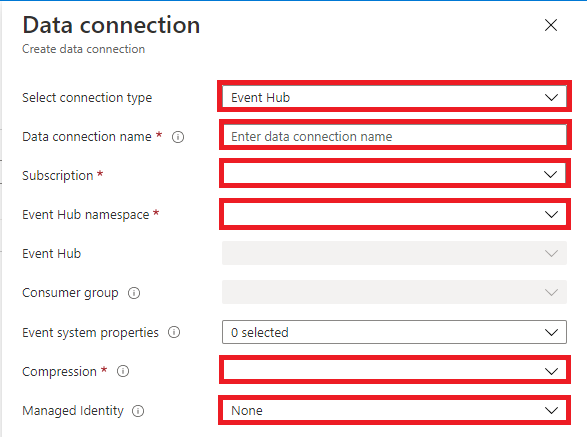
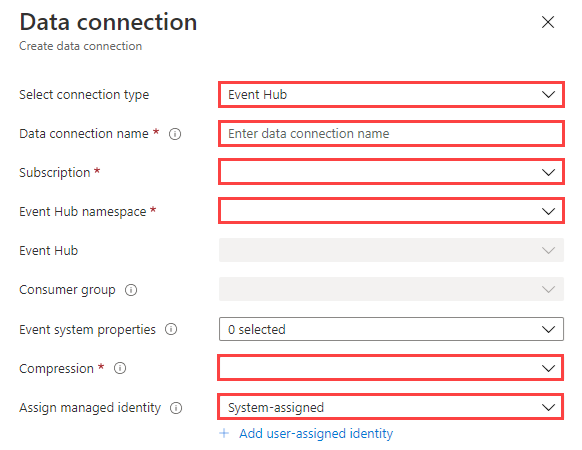
More feedback updates

diff --git a/data-explorer/ingest-data-event-hub.md b/data-explorer/ingest-data-event-hub.md
@@ -31,7 +31,7 @@ For general information about ingesting into Azure Data Explorer from Event Hub,
 
 * If you don't have an Azure subscription, create a [free Azure account](https://azure.microsoft.com/free/) before you begin.
 * [A test cluster and database](create-cluster-database-portal.md).
-* An existing [user assigned managed identity](/azure/active-directory/managed-identities-azure-resources/qs-configure-portal-windows-vm#user-assigned-managed-identity) or [system assigned managed identity](/azure/active-directory/managed-identities-azure-resources/qs-configure-portal-windows-vm#system-assigned-managed-identity) (optional).
+* We recommend using a [user assigned managed identity](/azure/active-directory/managed-identities-azure-resources/qs-configure-portal-windows-vm#user-assigned-managed-identity) or [system assigned managed identity](/azure/active-directory/managed-identities-azure-resources/qs-configure-portal-windows-vm#system-assigned-managed-identity) for the data connection (optional).
 * [A sample app](https://github.com/Azure-Samples/event-hubs-dotnet-ingest) that generates data and sends it to an Event Hub. Download the sample app to your system.
 * [Visual Studio 2019](https://visualstudio.microsoft.com/vs/) to run the sample app.
 
@@ -132,6 +132,9 @@ Fill out the form with the following information:
 | Compression | *None* | The compression type of the Event Hub messages payload. Supported compression types: *None, Gzip*.|
 | Managed Identity | System assigned | The managed identity used by the Data Explorer cluster for access to read from the Event Hub. The selected managed identity must have the *Azure Event Hubs Data Receiver* permission to read from the Event Hub, and must be added to your Data Explorer cluster. If you chose **System-assigned** managed identity and it doesn't exist, it will be created. Optionally, you can manually perform the steps to create a managed identity. |
 
+> [!NOTE]
+> If you have an existing data connection that is not using managed identities, we recommend updating it to use managed identities.
+
 #### Target table
 
 There are two options for routing the ingested data: *static* and *dynamic*.
@@ -214,6 +217,7 @@ With the app generating data, you can now see the flow of that data from the Eve
     ![Message result set](media/ingest-data-event-hub/message-result-set.png)
 
     > [!NOTE]
+    >
     > * Azure Data Explorer has an aggregation (batching) policy for data ingestion, designed to optimize the ingestion process. The default batching policy is configured to seal a batch once one of the following conditions is true for the batch: a maximum delay time of 5 minutes, total size of 1G, or 1000 blobs. Therefore, you may experience a latency. For more information see [batching policy](kusto/management/batchingpolicy.md).
     > * Event Hub ingestion includes Event Hub response time of 10 seconds or 1 MB.
     > * To reduce response time lag, configure your table to support streaming. See [streaming policy](kusto/management/streamingingestionpolicy.md).
